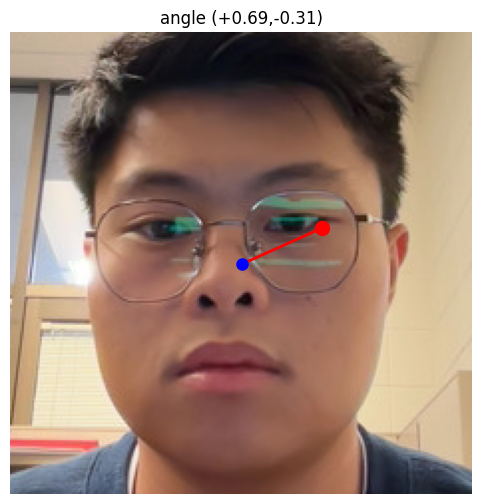
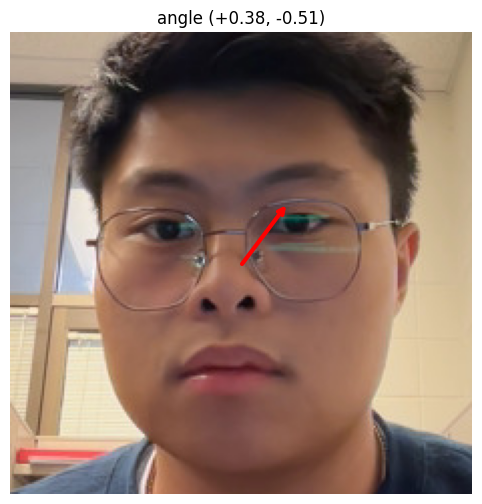
change grph

diff --git a/model/inference.py b/model/inference.py
@@ -62,17 +62,35 @@ def classify_region(x, y, W, H):
     return region.strip(), dist
 
 def draw_arrow(img: Image.Image, ang_xy, save=None, show=False):
-    w,h = img.size
-    cx,cy = w/2, h/2
-    scale = min(w,h)/4
-    ex,ey = cx + ang_xy[0]*scale, cy + ang_xy[1]*scale
-    fig,ax = plt.subplots(figsize=(8,6))
-    ax.imshow(img); ax.axis('off')
-    ax.plot([cx,ex],[cy,ey],'r-',lw=2)
-    ax.plot(cx,cy,'bo',ms=8); ax.plot(ex,ey,'ro',ms=10)
-    ax.set_title(f'angle ({ang_xy[0]:+.2f},{ang_xy[1]:+.2f})')
-    if save: fig.savefig(save, bbox_inches='tight'); print(f'✓ saved {save}')
-    if show: plt.show()
+    w, h      = img.size
+    cx, cy    = w / 2, h / 2
+    scale     = min(w, h) / 4
+    ex, ey    = cx + ang_xy[0] * scale, cy + ang_xy[1] * scale
+
+    fig, ax = plt.subplots(figsize=(8, 6))
+    ax.imshow(img)
+    ax.axis('off')
+
+    # ─── draw a single arrow from centre to end-point ──────────────────
+    ax.annotate(
+        '',                     # no text
+        xy=(ex, ey),            # arrow tip
+        xytext=(cx, cy),        # arrow tail
+        arrowprops=dict(
+            arrowstyle='->',    # normal arrow-head
+            linewidth=3,
+            color='red',
+            shrinkA=0, shrinkB=0   # don’t shorten at either end
+        )
+    )
+
+    ax.set_title(f'angle ({ang_xy[0]:+.2f}, {ang_xy[1]:+.2f})')
+
+    if save:
+        fig.savefig(save, bbox_inches='tight')
+        print(f'✓ saved {save}')
+    # if show:
+    #     plt.show()
     plt.close(fig)
 
 def auto_crop_face(pil_img, margin=0.25):
